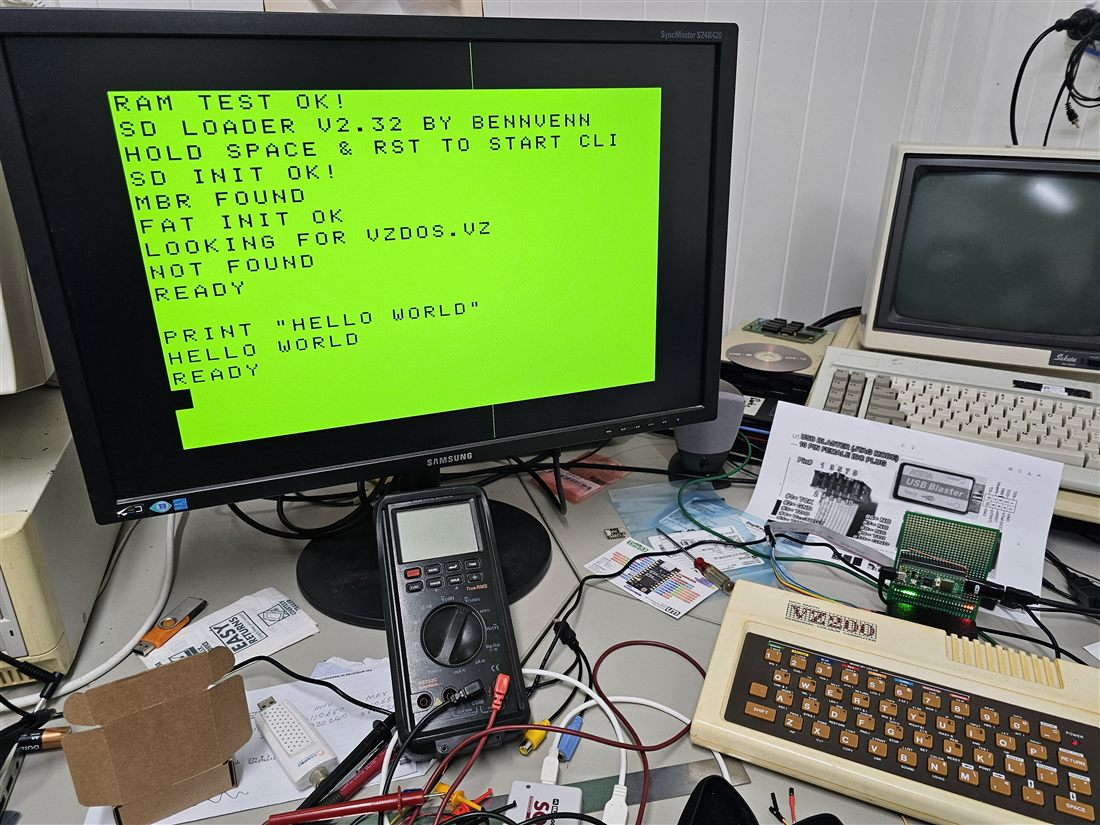
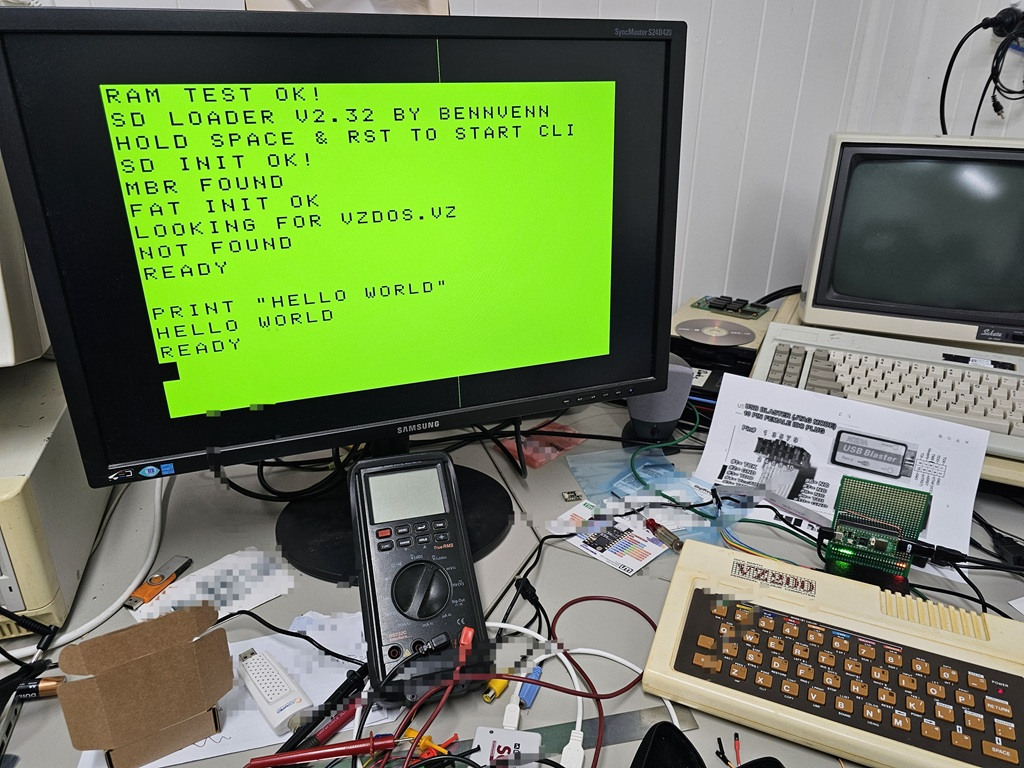
Update DESIGN notes and hardware photos; add map-panning demo GIF

diff --git a/DESIGN.md b/DESIGN.md
@@ -1,6 +1,6 @@
 # VZ-DOOM — Design Document
 
-A DOOM-flavoured 3D maze shooter for the Dick Smith VZ200. Because it's there.
+A DOOM-flavoured 3D maze shooter for the Dick Smith VZ200. Because why wouldn't you want to try and run DOOM on everything?
 
 ## Reality check (agreed earlier)
 
@@ -75,7 +75,7 @@ fallback if the budget slips.
   2048 VRAM bytes). `src/raycast.asm` + `tools/gen_tables.py` (tables + ref
   renderer) + `tools/z80sim.py` (minimal Z80 interpreter harness).
   Slow auto-rotation (1 unit / 4 frames). ~49.2K instructions ≈ 330K T-states
-  per frame → predicted **~10–11 fps**. Awaiting hardware test.
+  per frame → predicted **~10–11 fps**.
 - **M3 — movement** ✅ code-complete, simulator-verified (`src/walk.asm` →
   WALK.VZ). Controls: W/S forward/back, A/D turn (2 units/frame), ,/. strafe.
   Movement = step tables reused (1/8 cell/frame); collision tests X and Y
@@ -83,8 +83,8 @@ fallback if the budget slips.
   ($68FE W · $68FD A/D/S · $68EF ,/.), invisible to the Pico capture.
   Verified via `tools/walk_test.py`: 6 scripted-input scenarios (idle
   regression, walk, wall stop at exact fixed-point boundary, turn, strafe,
-  turn+walk), every frame byte-exact vs the Python reference. Awaiting
-  hardware test.
+  turn+walk), every frame byte-exact vs the Python reference.
+  
 - **M4 — doors, gun, sound** ✅ code-complete, simulator-verified
   (`src/vzdoom.asm` → VZDOOM.VZ). Doors: cell type 2 (render $DD), E opens
   the cell 0.5 ahead, auto-close 75 frames, held open while occupied, one
